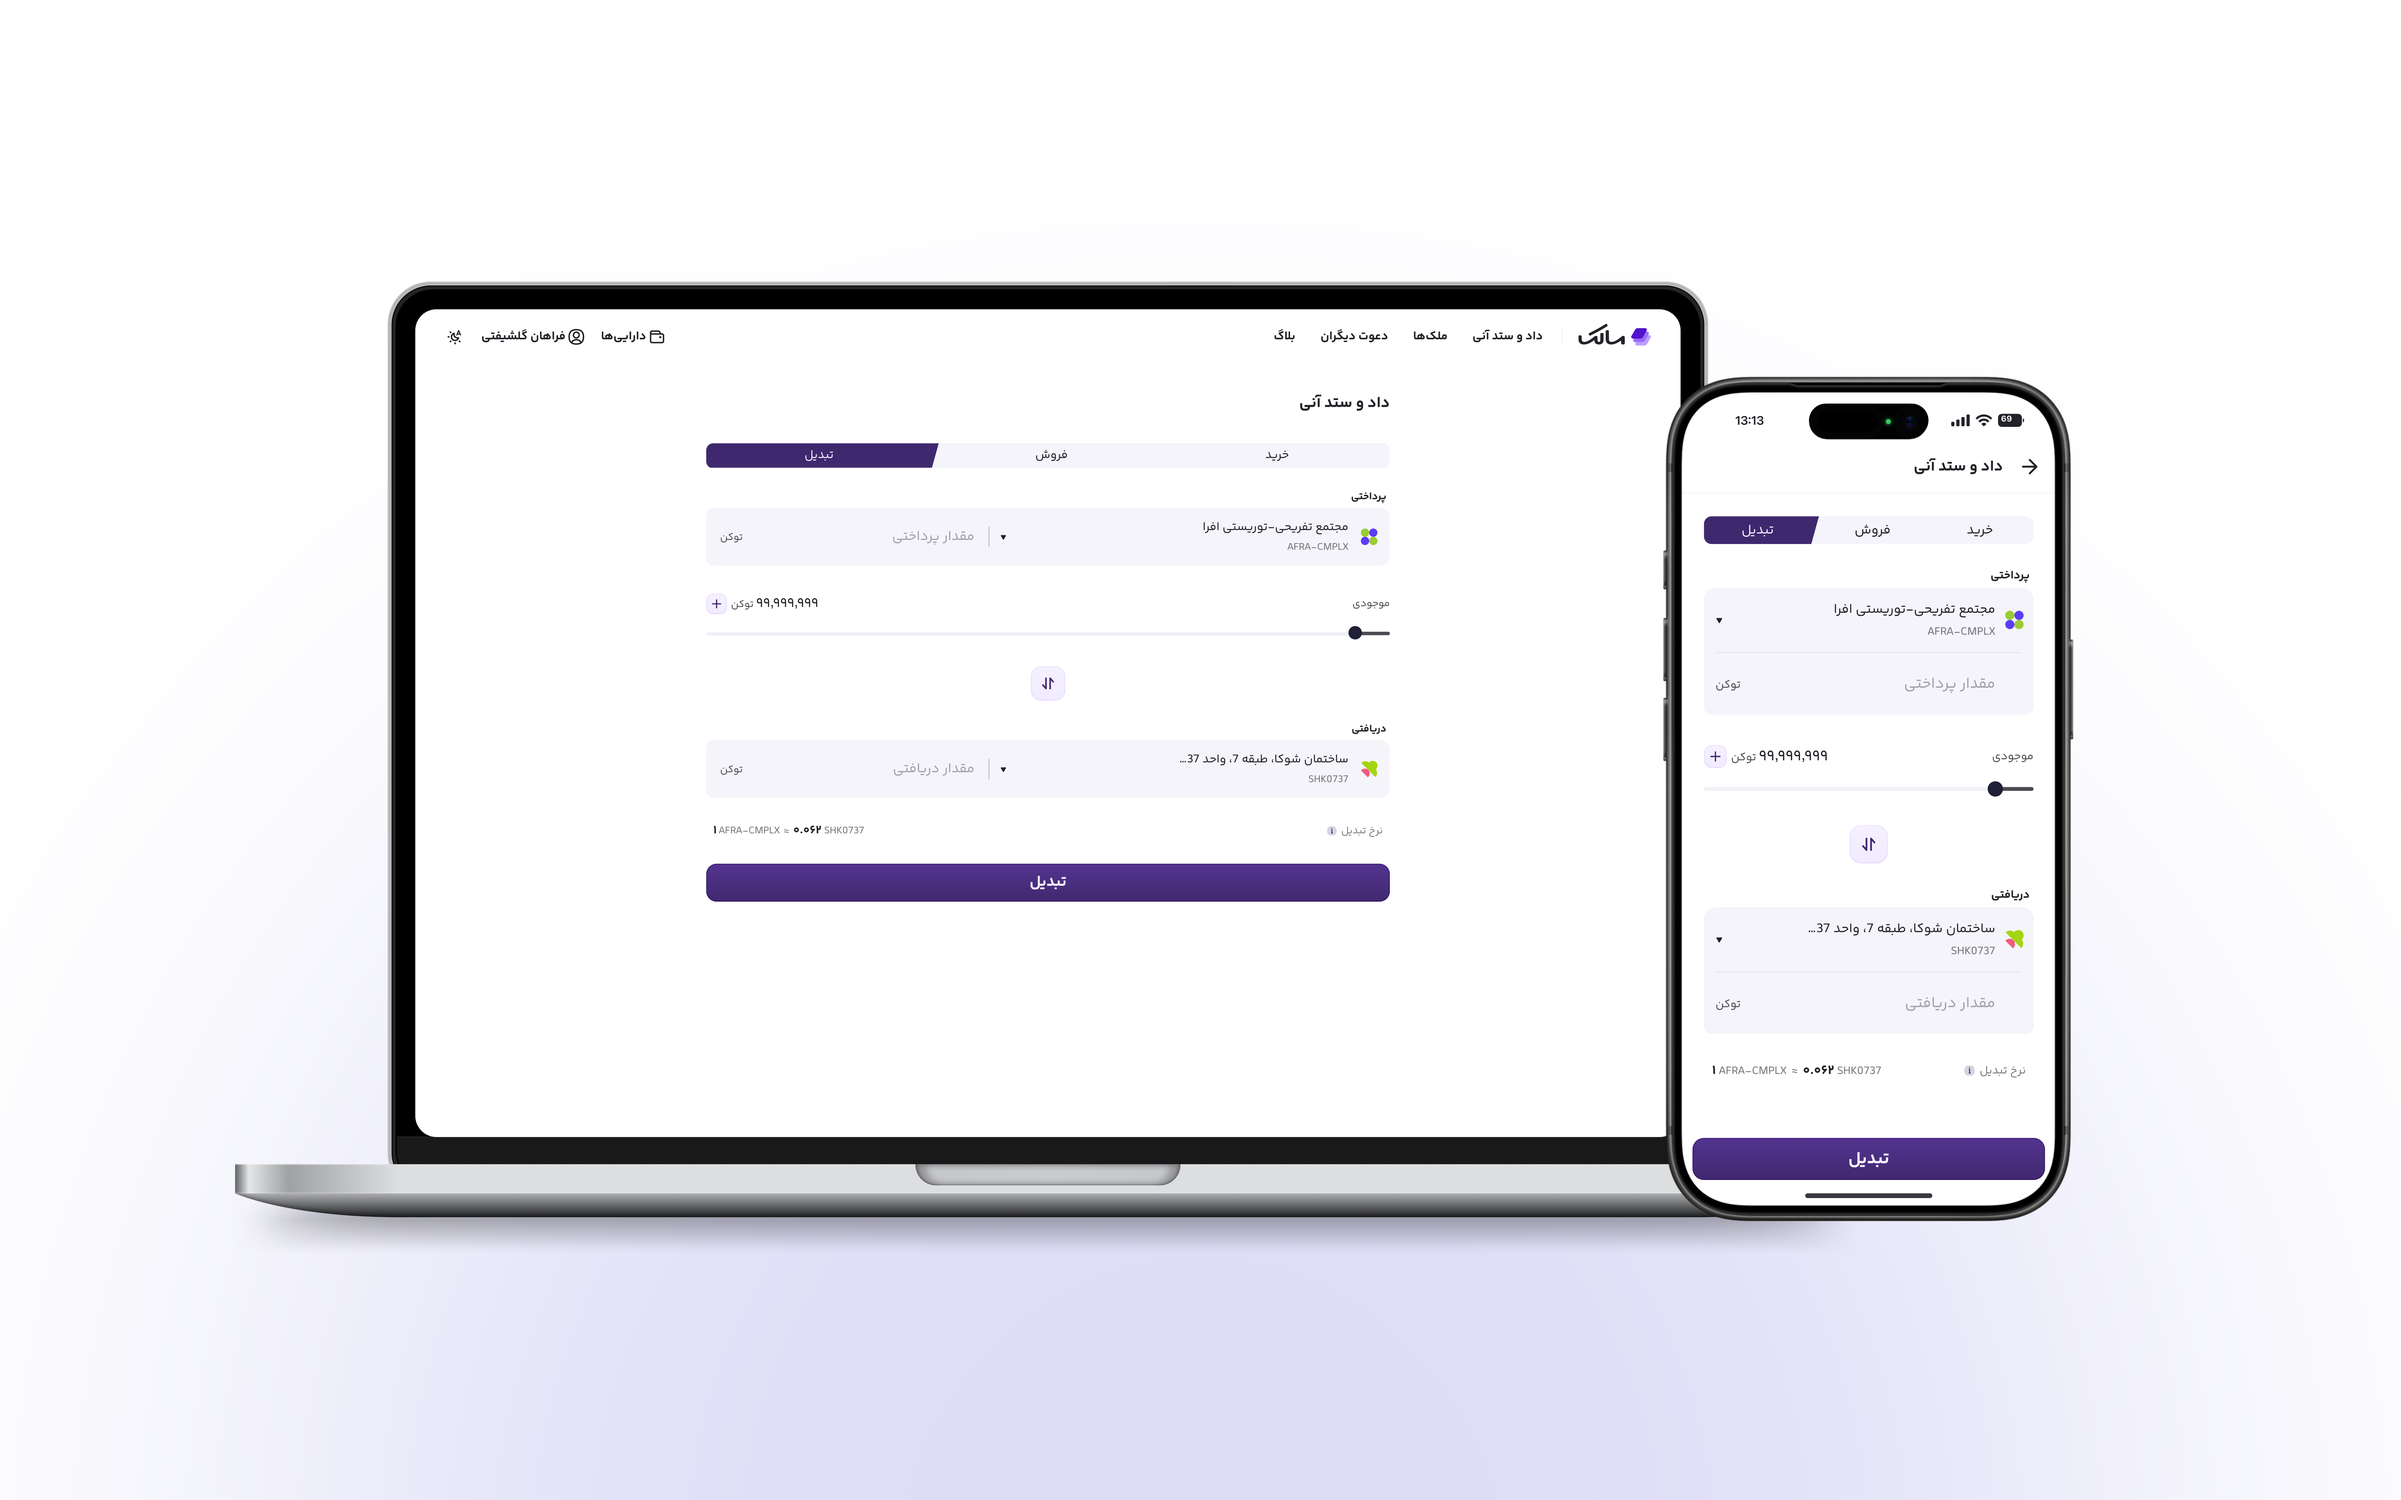
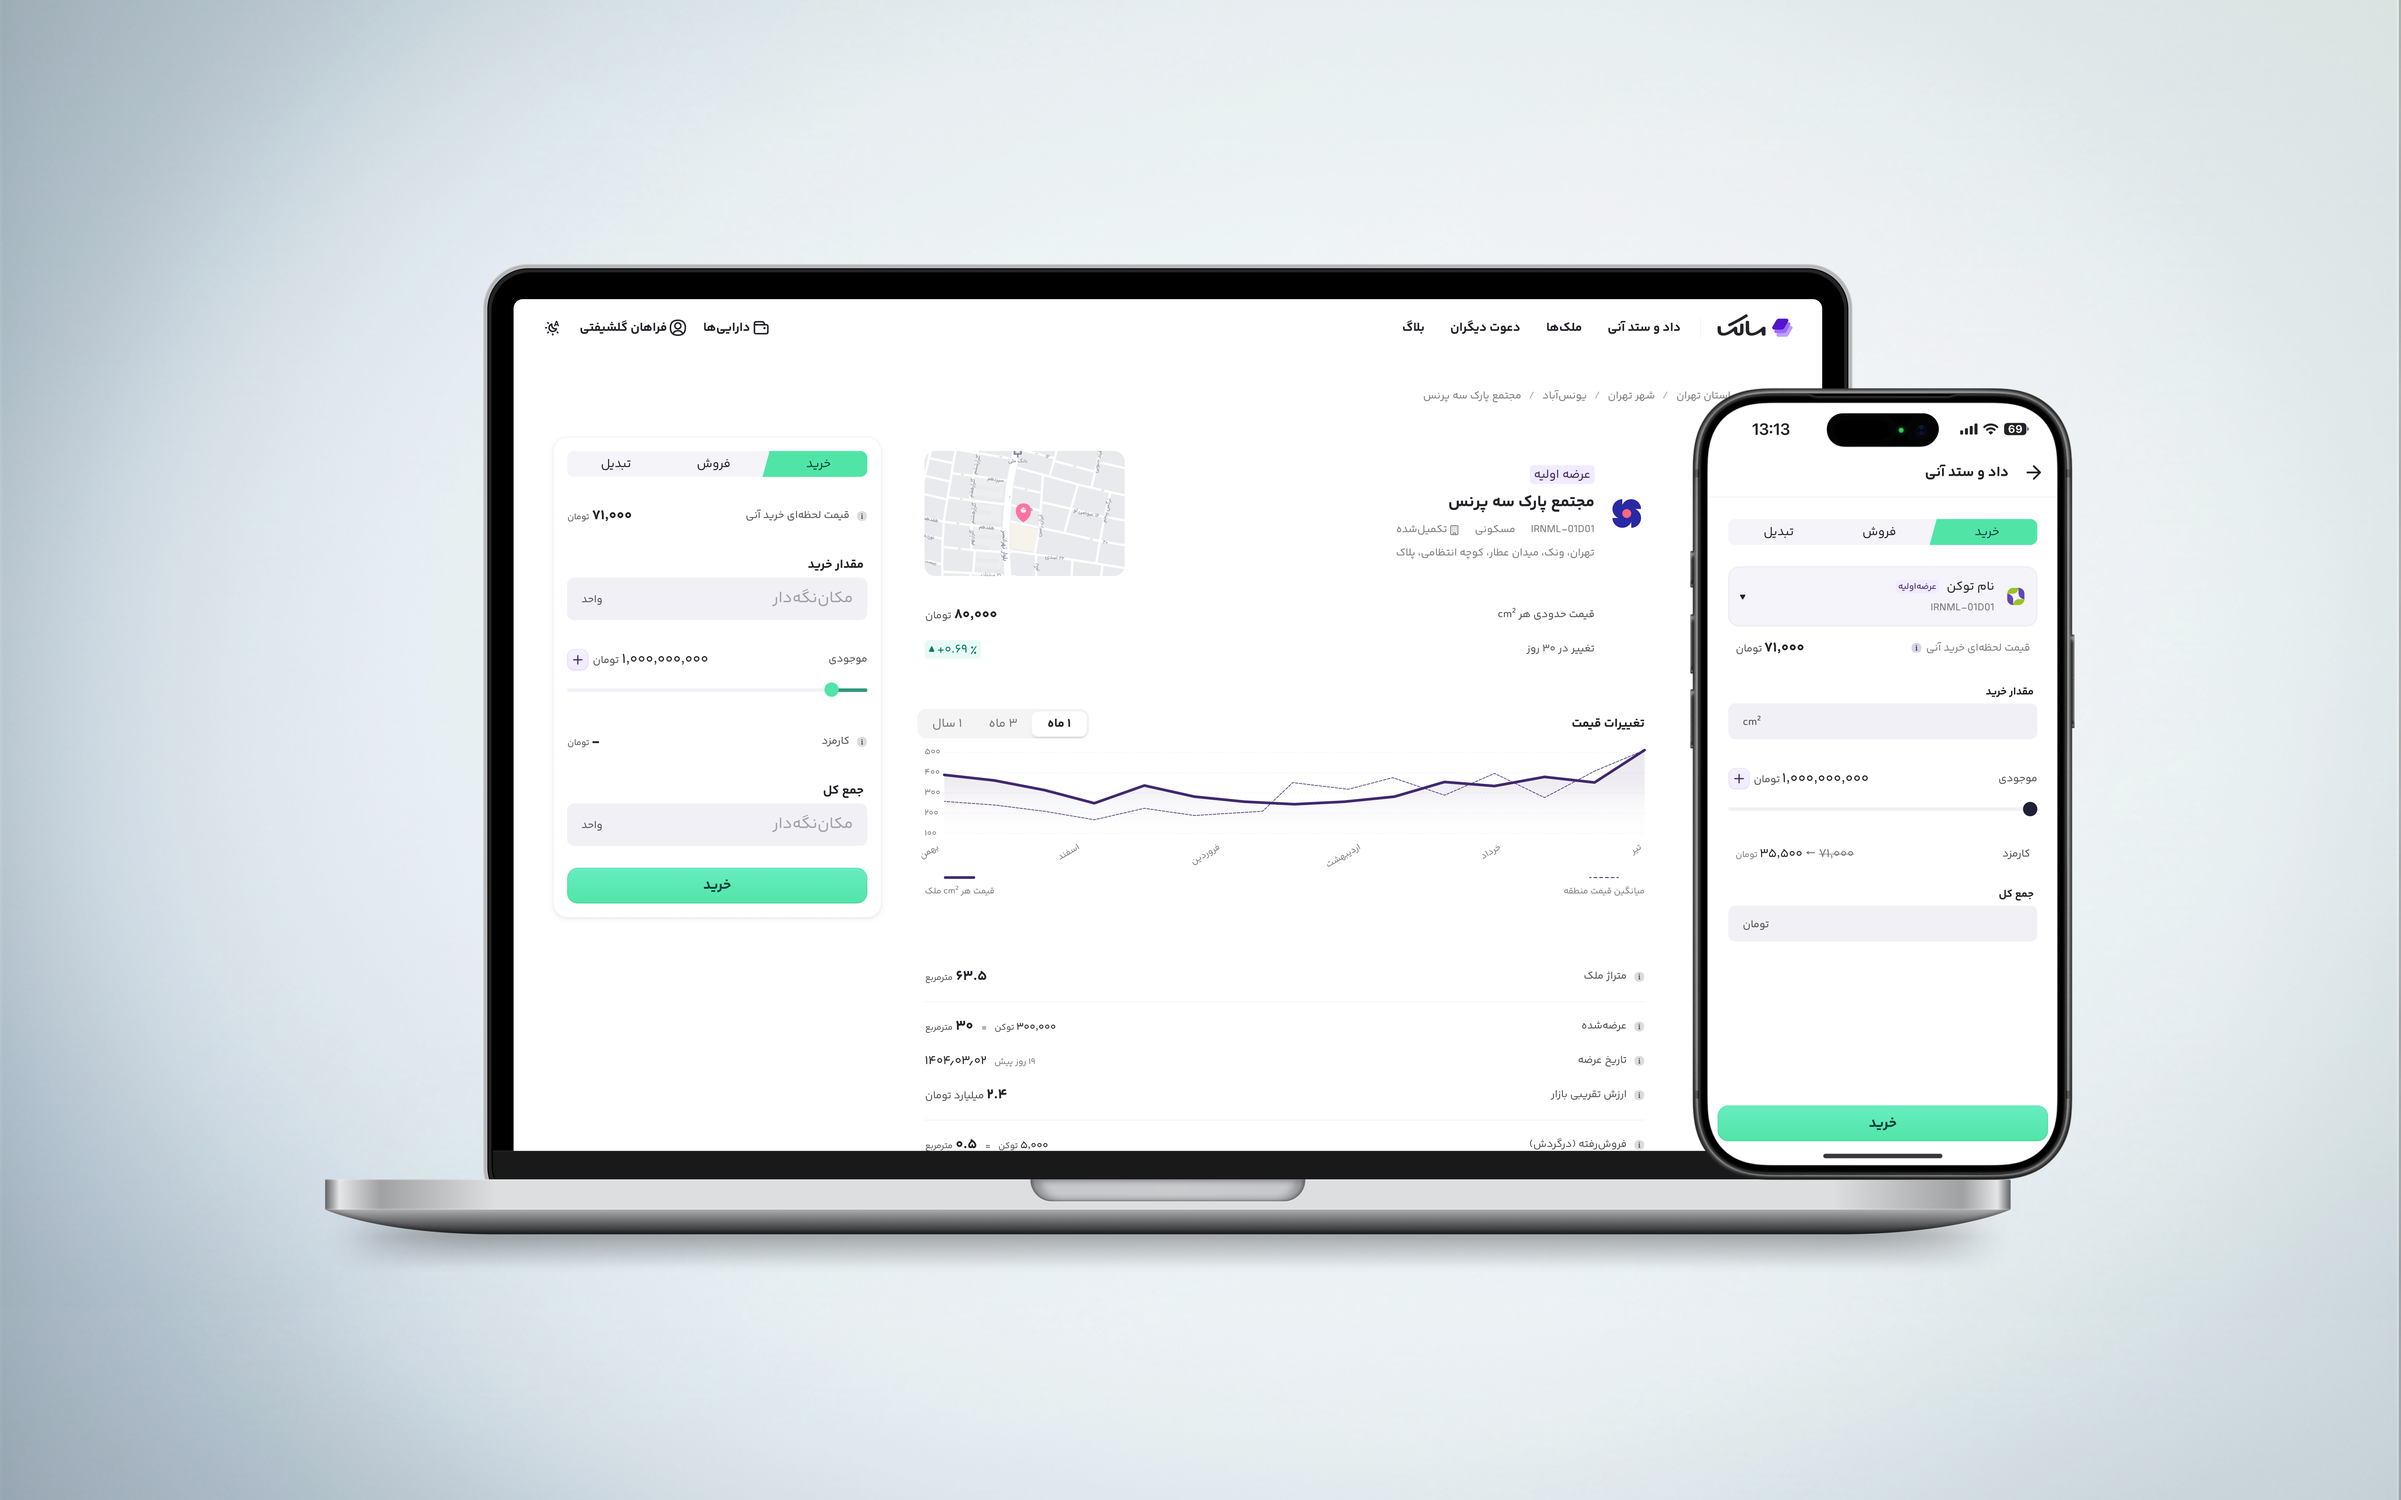
UI updates: hero portrait, marquee size, navbar mobile, explore text

diff --git a/src/components/Hero.tsx b/src/components/Hero.tsx
@@ -166,7 +166,7 @@ export function Hero() {
             <motion.div
               whileHover={reduce ? undefined : { rotate: -1.5, scale: 1.01 }}
               transition={{ duration: 0.6, ease: [0.16, 1, 0.3, 1] }}
-              className="relative overflow-hidden rounded-3xl border border-border bg-bg-subtle shadow-lg"
+              className="relative overflow-hidden rounded-3xl border border-border bg-bg-subtle shadow-lg aspect-[4/5]"
             >
               <Image
                 src="/personal.png"
@@ -175,7 +175,8 @@ export function Hero() {
                 height={700}
                 priority
                 sizes="(min-width: 768px) 22vw, 60vw"
-                className="h-auto w-full object-cover object-top"
+                className="absolute inset-0 h-full w-full object-cover"
+                style={{ objectPosition: "50% 30%" }}
               />
             </motion.div>
           </motion.div>
@@ -186,13 +187,13 @@ export function Hero() {
           initial={reduce ? false : { opacity: 0 }}
           animate={{ opacity: 1 }}
           transition={{ delay: 1.2, duration: 0.8 }}
-          className="mt-auto flex justify-center pb-6 pt-12 md:pt-16"
+          className="mt-auto flex justify-center pb-10 pt-12 md:pt-16"
         >
           <Link
             href="/#work"
             className="group inline-flex items-center gap-3 text-fg-muted transition-colors duration-300 hover:text-fg"
           >
-            <span className="font-sans text-base uppercase tracking-[0.3em] md:text-lg">
+            <span className="font-sans text-sm uppercase tracking-[0.3em] md:text-base">
               Explore my work
             </span>
             <ArrowDown

diff --git a/src/components/Navbar.tsx b/src/components/Navbar.tsx
@@ -116,7 +116,7 @@ export function Navbar() {
                   <Link
                     href={item.href}
                     className={cn(
-                      "block border-b border-border py-5 text-3xl font-serif transition-colors",
+                      "block border-b border-border py-3 text-xl font-serif transition-colors",
                       isActive(item.href) ? "text-fg" : "text-fg-muted",
                     )}
                   >
@@ -126,23 +126,6 @@ export function Navbar() {
               ))}
             </ul>
           </nav>
-          <div className="mt-auto pb-8">
-            <p className="label mb-3">Elsewhere</p>
-            <ul className="flex flex-wrap gap-x-5 gap-y-2 text-sm">
-              {site.socials.map((s) => (
-                <li key={s.href}>
-                  <a
-                    href={s.href}
-                    target="_blank"
-                    rel="noreferrer"
-                    className="link-hover"
-                  >
-                    {s.label}
-                  </a>
-                </li>
-              ))}
-            </ul>
-          </div>
         </div>
       </div>
     </>

diff --git a/src/components/Marquee.tsx b/src/components/Marquee.tsx
@@ -21,7 +21,7 @@ export function Marquee({ items, className, separator }: Props) {
       )}
       aria-hidden="true"
     >
-      <div className="flex shrink-0 animate-marquee items-center text-xl tracking-tight md:text-2xl" style={{ fontFamily: "var(--font-dm-sans), sans-serif" }}>
+      <div className="flex shrink-0 animate-marquee items-center text-base tracking-tight md:text-lg" style={{ fontFamily: "var(--font-dm-sans), sans-serif" }}>
         {[...items, ...items].map((item, i) => (
           <span key={i} className="inline-flex items-center">
             <span className="text-fg">{item}</span>
